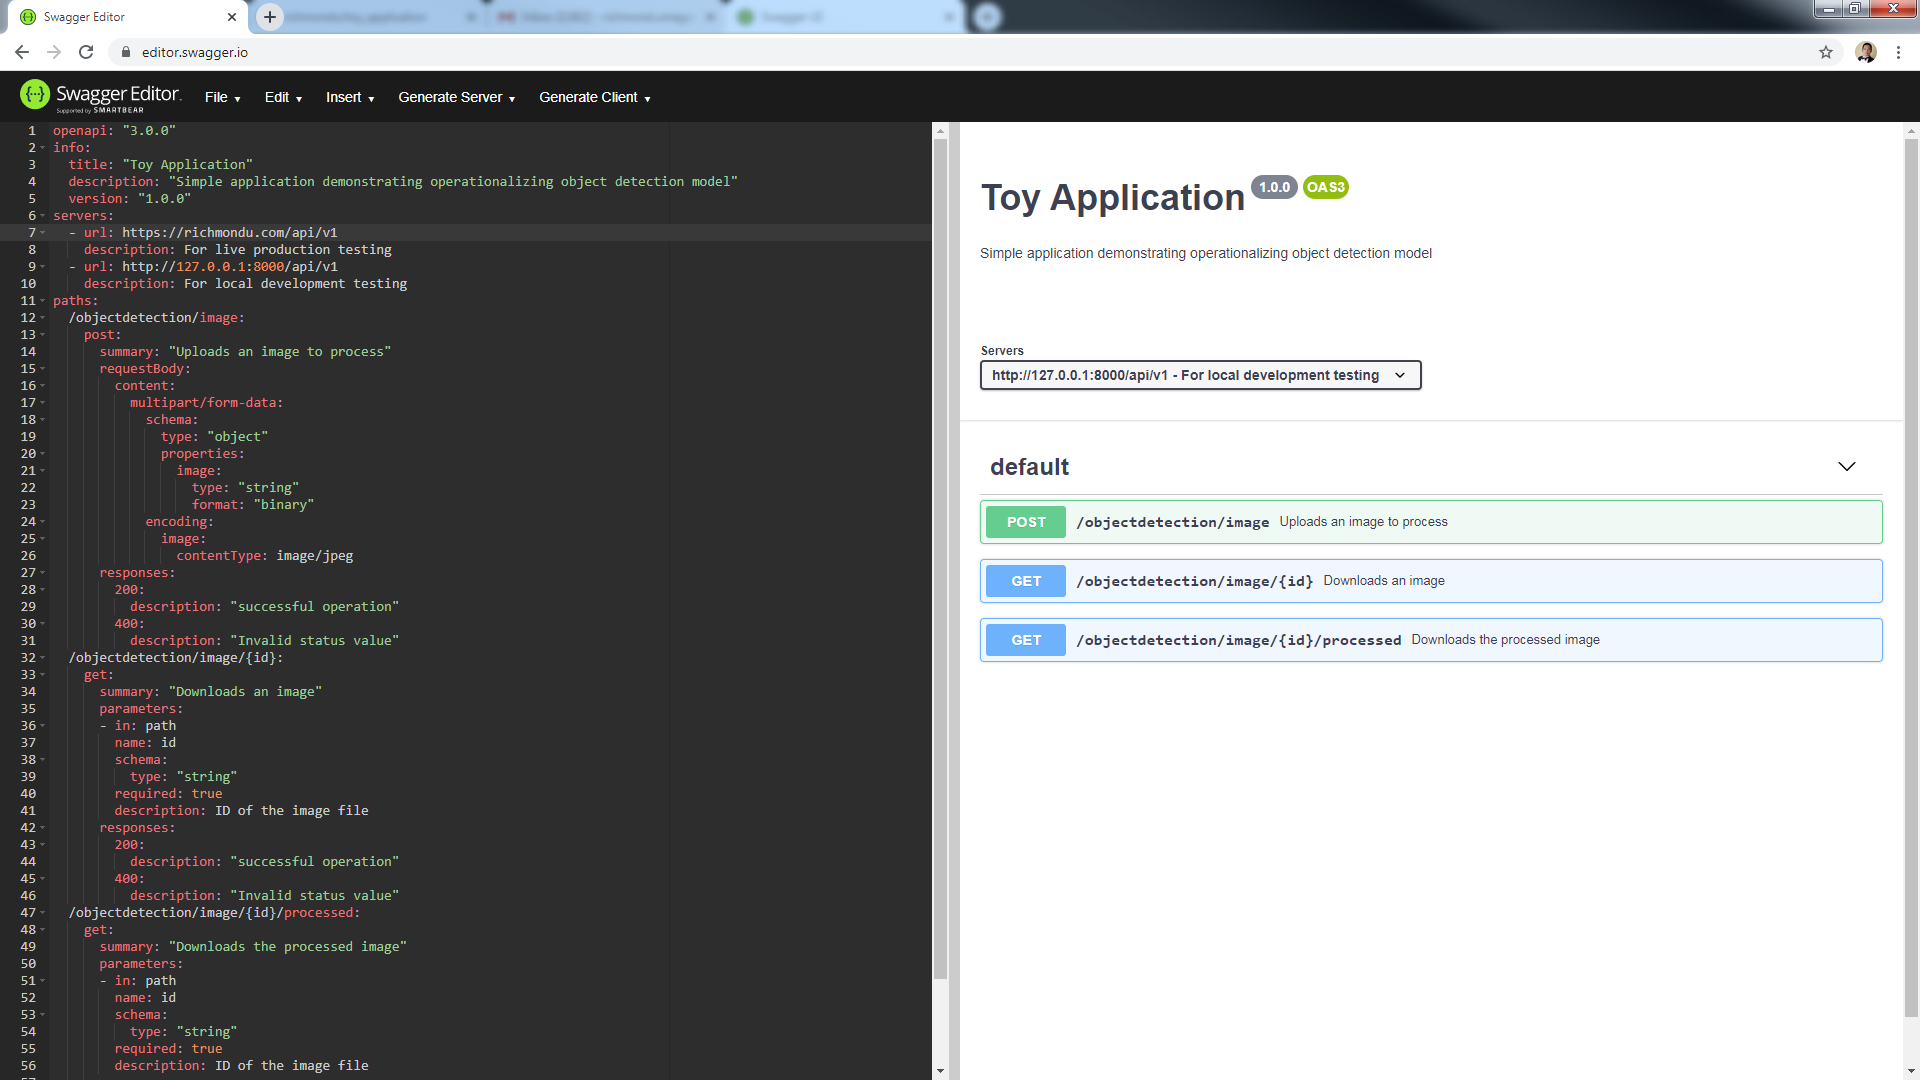
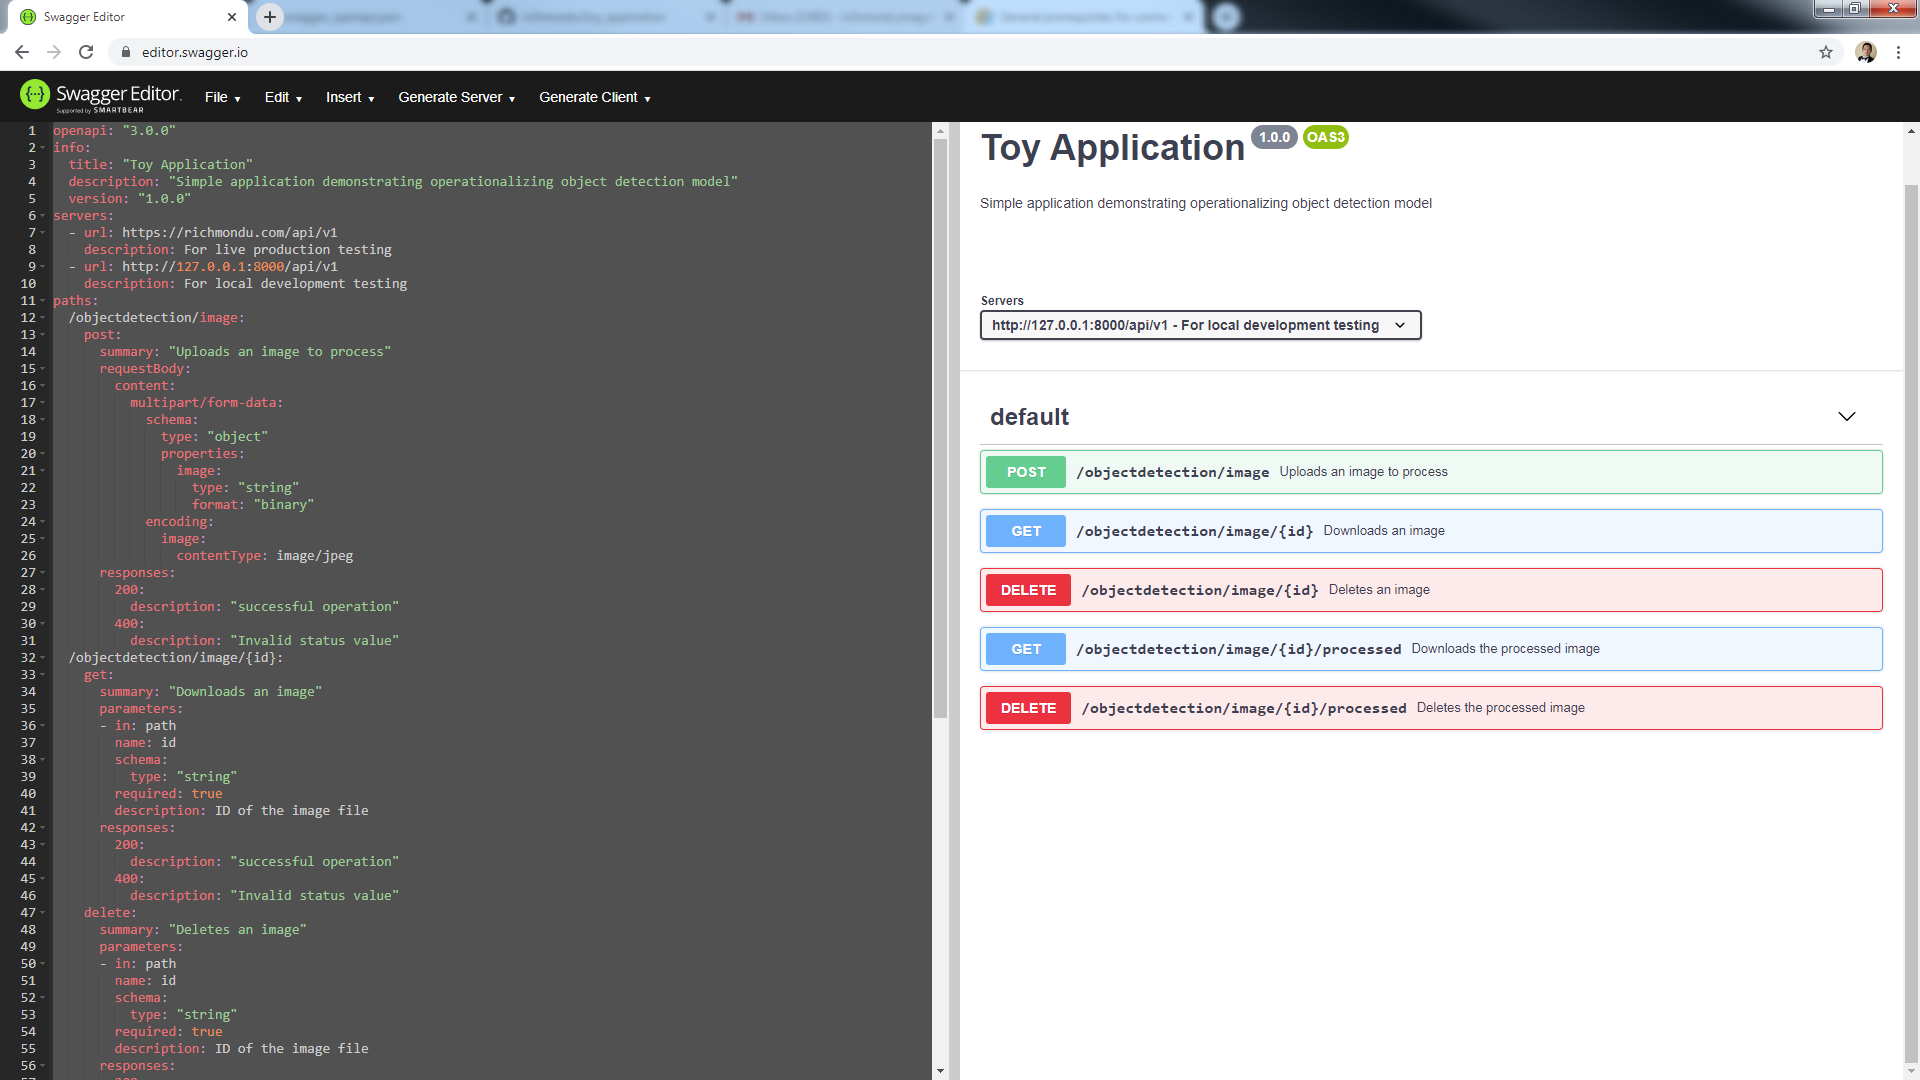
Add Delete APIs

diff --git a/restapi/src/object_detection/blueprint_objectdetection.py b/restapi/src/object_detection/blueprint_objectdetection.py
@@ -62,6 +62,6 @@ def download_image_processed(id):
 @ApiLogger.log
 def delete_image_processed(id):
 	img = UploadedFile(file_name=id)
-	img.delete()
+	img.delete_processed()
 	return jsonify(status='OK')
 
